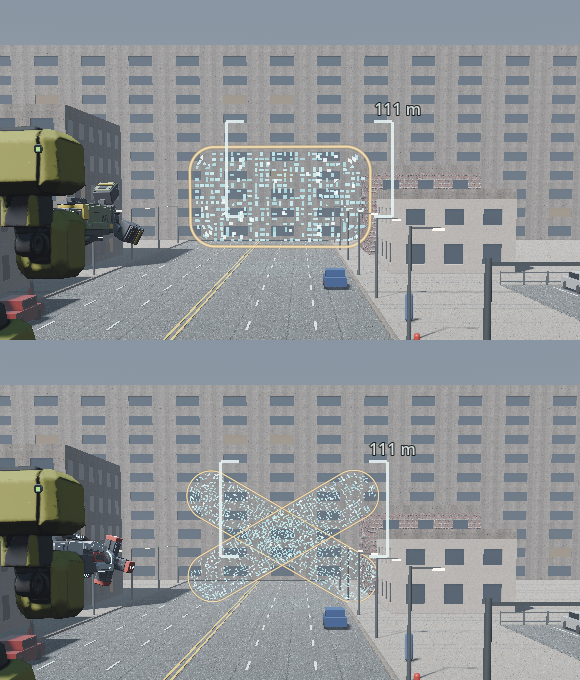
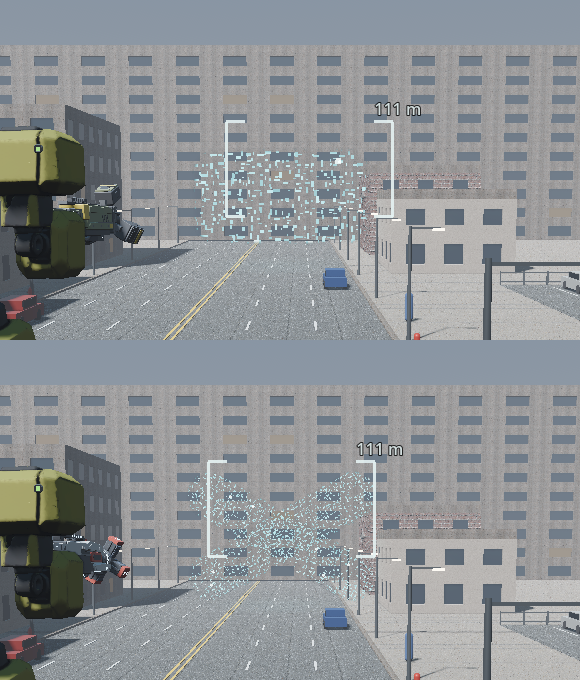
Shotgun 2 and 3 pulse looks: no outline, 25% fewer particles, scattered at random
Claude-Session: https://claude.ai/code/session_01KUmA77URF7KDMRfCxKb9jU

diff --git a/DESIGN.md b/DESIGN.md
@@ -1086,6 +1086,7 @@ Paint skin "Navy Orange" (the 4th garage skin, `MechSkinChoice.Style.PAINT`, the
 - `SpinPulseShotgunWeapon` (`scripts/weapons/spin_pulse_shotgun_weapon.gd`, extends PulseShotgunWeapon): a press starts the spin (`spin_max_deg` 1080 deg/s in `spin_up_time` 0.15 s); after `hold_time` 0.2 s held (and the gun raised) the pulse leaves on its own; the spin then slows to a stop in `spin_down_time` 1.2 s; letting go earlier fires nothing; one shot per press. `fire_rate` 20 = the 0.05 s wait. `PulseShotgunWeapon.x_pattern`: the pellets fly on the two diagonals of the square (the center and two per half diagonal, 9 in all) and the `PulseShot` look is an X (`cross`, bars `x_bar` 0.5 m).
 - Rune pulse look for Shotgun 2 and 3 (user 2026-11-01: "Beautify and add character to the shotgun particles for shotgun 2 and 3. Use the image as reference. Shotgun 2 particle is horizontal rectangle, slightly larger than the square crosshair now. X ... also larger a bit than the square crosshair"; reference `models/guides/pulse_rune_ref.jpg`, a golden rune ring with a cyan center): `PulseShot` now draws cards with `shaders/pulse_rune.gdshader` (unshaded: a rounded rectangle with a gold outer line, a band of upright gold glyphs on the nearest edge that flicker and scroll round, sparkles, a faint gold haze, a gold inner line, a rippling cyan center, an HDR boost for bloom). Shotgun 2: one horizontal rectangle (glyph band 0.19 of the short side, so the center shows). Shotgun 3: an X of two rune strips corner to corner of the same rectangle (strip width 0.5 of its height), each with a bright cyan core line. Size: `half_deg` (7.2, 4.15) degrees seen from the player camera (the look keeps its size on screen; the crosshair box is about 6.6 x 3.8 degrees with the 53 degree camera at 16:9, so it is about 10% larger); a quick bloom out of the muzzle and a slight pulse. The pellets follow: `PulseShotgunWeapon.pattern_half_deg` (7.2, 4.15) replaces the square `spread_deg` pattern: Shotgun 2's 3 x 3 grid fills the rectangle (1.74 : 1), Shotgun 3's X runs corner to corner. Tests updated (rectangle ratio, X on the rectangle's diagonals): 0 failures.
 - Solid cyan particles (user 2026-11-01: "Remove space in the middle and replace with particles. Change particle color to cyan"): `pulse_rune.gdshader` `solid` 1 (default): the glyph particles fill the whole inside of the rectangle and of each X strip, from the edge to the middle (no inner line, no center plate, no core line); the glyphs, sparkles and haze are cyan; the outer line stays gold. `solid` 0 brings back the earlier band, inner line and cyan center.
+- No outline, fewer and scattered particles (user 2026-11-01: "No orange outline. Reduce the particles by 25%, randomize the particle distribution"): `outline` 0 (the gold line is off; the particles fade out over the last 6% at the edge so the shape still reads); in solid mode the particles are now scattered, not on an edge grid: two layers of cells (0.085 and 0.054 of the short side) drifting slowly, one short cyan stroke per cell at a random place, length, width and direction, lit by a hash that changes about 8 times a second (`scatter_lit` 0.75), plus rare white sparkles. Measured in Godot screenshots (cyan pixels inside the rectangle): 0.126 before, 0.089 and 0.099 in two frames after (70% and 78%, about 25% fewer).
 - Start values (Claude, to tune): 3.2 t, 9 pellets x 8 damage, spread 4 deg, 300 m/s, range 270 m, 8 shots per magazine, 5 reserve magazines, reload 2.5 s.
 - Manual fire for every shotgun (user rule 2026-11-01): `WeaponData.semi_auto` (new; true for the Shotgun, Shotgun 2 and Shotgun 3; also in `tools/mech_gen/shotgun.py`). `GunWeapon`: with it, a press queues one shot that leaves when the gun is raised and ready; letting go drops it; `needs_release` is true after the shot until the trigger is let go. `AiPilot._must_release`: the AI lets go for a frame after such a shot, then presses again.
 - Checks: `tools/godot/test_shotgun_3.gd` (a 0.1 s press fires nothing; the heads spin while held; no shot before 0.2 s; the pulse 0.32 s after the press with the raise, 0.23 s with the gun up; 9 pellets on an X; one X look; the spin slows from 1080 to 605 deg/s in 0.5 s; holding fires no more; a new press fires; the first Shotgun fires once while held 1.5 s and again on a new press): 0 failures. `test_shotgun_2.gd` (now: holding fires once; fast taps give shots 0.53 s apart): 0 failures.
